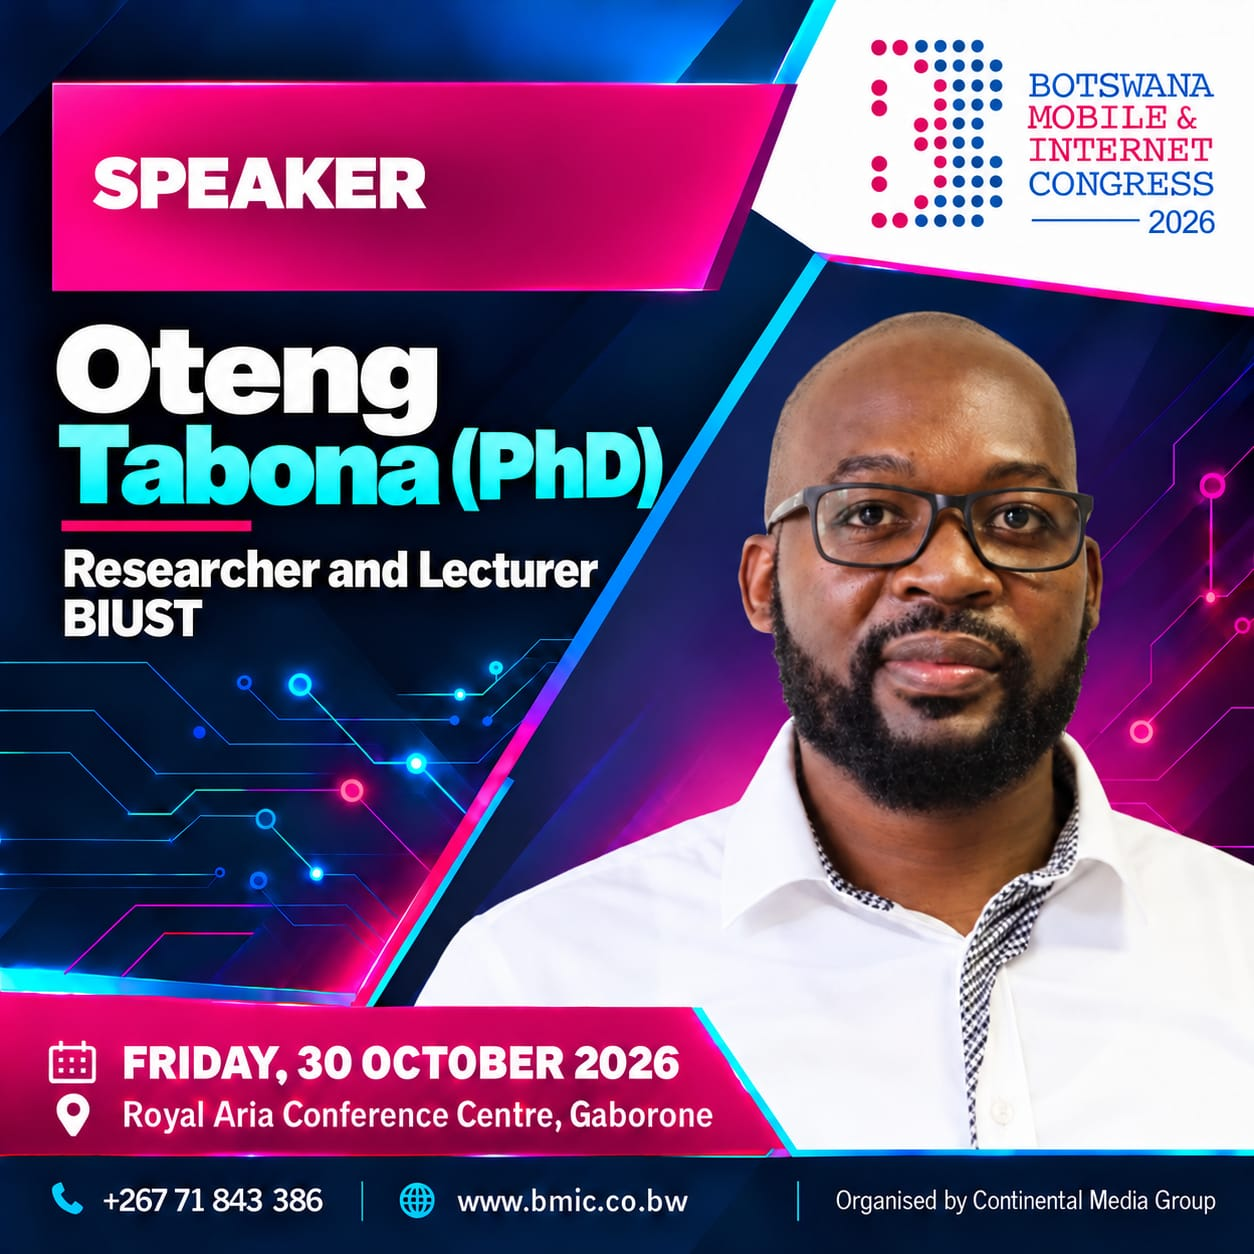
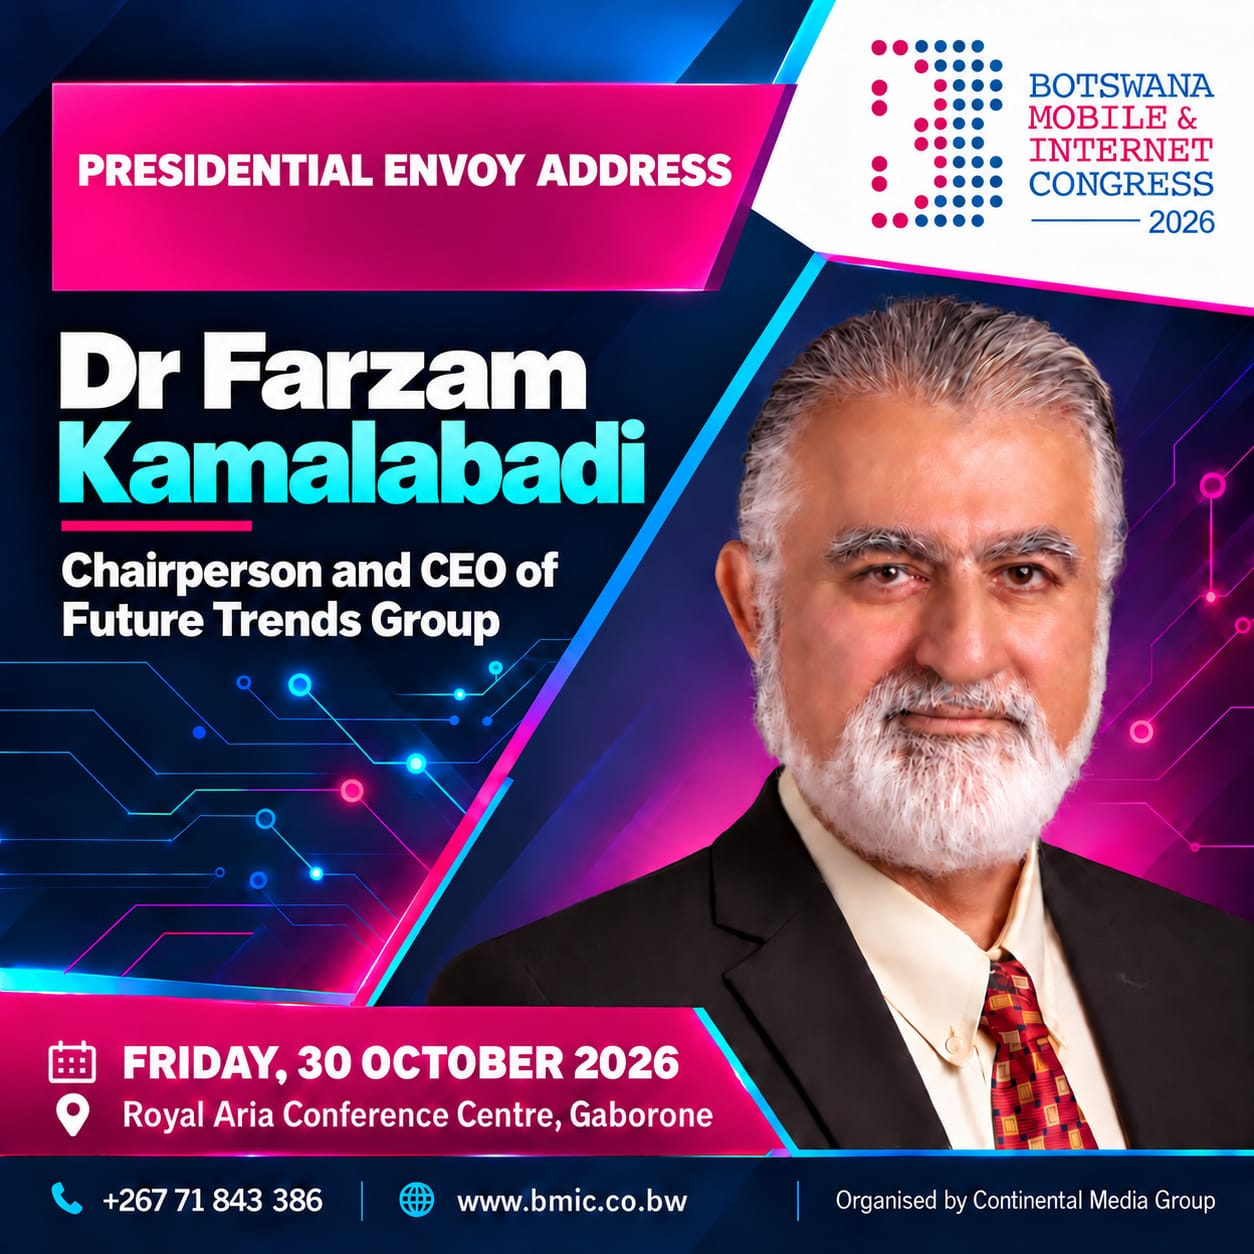
feat(email): replace QR code with pass image attachment
Update email template to send the digital pass as a base64-encoded image attachment instead of an inline QR code for better display compatibility.

diff --git a/api/send-email.ts b/api/send-email.ts
@@ -58,11 +58,7 @@ export default async function handler(req: VercelRequest, res: VercelResponse) {
       const cleanPassId = escapeHtml(passId.trim());
       const cleanTier = escapeHtml((tier || passOrTier || 'General Pass').trim());
       const cleanOrg = escapeHtml((req.body.organizationName || '').trim());
-      const cleanBookingRef = escapeHtml((req.body.bookingId || '').replace('reg_', '').toUpperCase());
-      const isMagentaTier = cleanTier.toLowerCase().includes('corporate delegate') || cleanTier.toLowerCase().includes('corp');
-      const pillBg = isMagentaTier ? '#E0245E' : '#2F6FBA';
-      const accentColor = isMagentaTier ? '#FF6B9A' : '#6AA5EE';
-      const qrUrl = `https://api.qrserver.com/v1/create-qr-code/?size=140x140&data=${encodeURIComponent(cleanPassId)}`;
+      const passImageBase64 = req.body.passImageBase64 || '';
 
       subject = `BMIC 2026 Official Congress Pass – ${cleanPassId}`;
 
@@ -79,7 +75,7 @@ Delegate: ${cleanName} ${cleanOrg ? `(${cleanOrg})` : ''}
 Venue: Royal Aria Conference Centre, Plenary Hall
 Date: 30 October 2026
 
-Please present this Pass ID or QR code at the registration desk upon arrival.
+Your official digital pass image is attached to this email and displayed below. Please present this pass at the registration desk upon arrival.
 
 Contact: info@bmic.co.bw | Botswana Mobile Innovation Congress 2026
       `.trim();
@@ -95,93 +91,57 @@ Contact: info@bmic.co.bw | Botswana Mobile Innovation Congress 2026
   <table width="100%" border="0" cellspacing="0" cellpadding="0" style="background-color: #050B14; padding: 32px 16px;">
     <tr>
       <td align="center">
-        <!-- Main Ticket Card Table -->
-        <table width="640" border="0" cellspacing="0" cellpadding="0" style="background-color: #0A1128; border: 1px solid #1F2D52; border-radius: 16px; overflow: hidden; box-shadow: 0 10px 30px rgba(0,0,0,0.6);">
+        <!-- Container -->
+        <table width="650" border="0" cellspacing="0" cellpadding="0" style="background-color: #0A1128; border: 1px solid #1F2D52; border-radius: 16px; overflow: hidden; box-shadow: 0 10px 30px rgba(0,0,0,0.6);">
+          <!-- Header Banner -->
           <tr>
-            <!-- Left Ticket Body -->
-            <td style="padding: 32px; vertical-align: top;">
-              <table width="100%" border="0" cellspacing="0" cellpadding="0">
+            <td align="center" style="padding: 28px 24px 20px 24px; border-bottom: 1px solid rgba(255,255,255,0.08);">
+              <span style="font-size: 11px; font-weight: bold; color: #ffffff; letter-spacing: 2px; display: block; margin-bottom: 4px;">BOTSWANA MOBILE &amp; INTERNET CONGRESS</span>
+              <span style="font-size: 13px; font-weight: bold; color: #6AA5EE; letter-spacing: 1px; display: block;">BMIC 2026 OFFICIAL PASS</span>
+            </td>
+          </tr>
+          <!-- Greeting -->
+          <tr>
+            <td style="padding: 24px 32px 16px 32px;">
+              <p style="margin: 0 0 12px 0; font-size: 15px; color: #E2E8F0;">
+                Dear <strong style="color: #ffffff;">${cleanName}</strong>,
+              </p>
+              <p style="margin: 0; font-size: 14px; line-height: 1.6; color: #9AA6C4;">
+                Your official congress pass has been generated. You can view your pass below or use the attached image file when checking in at the Royal Aria Conference Centre.
+              </p>
+            </td>
+          </tr>
+          <!-- Actual Pass Image Display -->
+          <tr>
+            <td align="center" style="padding: 16px 32px 28px 32px;">
+              ${
+                passImageBase64
+                  ? `<img src="${passImageBase64}" alt="BMIC 2026 Official Pass" width="586" style="display: block; width: 100%; max-width: 586px; height: auto; border-radius: 12px; border: 1px solid #2F4275; box-shadow: 0 8px 24px rgba(0,0,0,0.5);" />`
+                  : `<div style="padding: 40px; background-color: #0E1C38; border-radius: 12px; color: #6AA5EE; font-family: monospace;">Pass ID: ${cleanPassId} (${cleanTier})</div>`
+              }
+            </td>
+          </tr>
+          <!-- Details & Instructions -->
+          <tr>
+            <td style="padding: 0 32px 32px 32px;">
+              <table width="100%" border="0" cellspacing="0" cellpadding="0" style="background-color: #0E1C38; border: 1px solid rgba(47, 109, 181, 0.3); border-radius: 12px; padding: 20px;">
                 <tr>
-                  <td>
-                    <span style="font-size: 11px; font-weight: bold; color: #ffffff; letter-spacing: 1px; display: block;">BOTSWANA MOBILE &amp; INTERNET</span>
-                    <span style="font-size: 11px; font-weight: bold; color: #6AA5EE; letter-spacing: 1px; display: block;">CONGRESS</span>
-                  </td>
-                  <td align="right">
-                    <span style="background-color: ${pillBg}; color: #ffffff; padding: 6px 14px; border-radius: 20px; font-size: 10px; font-weight: bold; text-transform: uppercase; letter-spacing: 0.5px; display: inline-block;">
-                      ${cleanTier}
-                    </span>
-                  </td>
-                </tr>
-              </table>
-
-              <!-- Date & Location -->
-              <div style="font-size: 10px; font-family: monospace; color: #8A97B8; text-transform: uppercase; letter-spacing: 1.5px; margin-top: 18px; margin-bottom: 24px;">
-                30 OCTOBER 2026 &middot; GABORONE, BOTSWANA
-              </div>
-
-              <!-- Delegate Info -->
-              <div style="margin-bottom: 24px;">
-                <span style="font-size: 9px; font-family: monospace; color: #8A97B8; text-transform: uppercase; letter-spacing: 1.5px; display: block; margin-bottom: 4px;">DELEGATE</span>
-                <h2 style="margin: 0; font-size: 24px; font-weight: 500; color: #ffffff; letter-spacing: -0.5px;">${cleanName}</h2>
-                ${cleanOrg ? `<div style="font-size: 13px; color: #9AA6C4; margin-top: 2px;">${cleanOrg}</div>` : ''}
-              </div>
-
-              <!-- Divider -->
-              <table width="100%" border="0" cellspacing="0" cellpadding="0" style="margin-bottom: 20px;">
-                <tr>
-                  <td style="border-top: 1px solid #24366A; font-size: 1px; line-height: 1px;">&nbsp;</td>
-                </tr>
-              </table>
-
-              <!-- Info Grid -->
-              <table width="100%" border="0" cellspacing="0" cellpadding="0">
-                <tr>
-                  <td width="50%" style="vertical-align: top; padding-bottom: 16px; padding-right: 12px;">
-                    <span style="font-size: 9px; font-family: monospace; color: #8A97B8; text-transform: uppercase; display: block; margin-bottom: 2px;">VENUE</span>
-                    <span style="font-size: 12px; color: #ffffff; font-weight: 500; line-height: 1.4; display: block;">Royal Aria Conference Centre, Plenary Hall</span>
-                  </td>
-                  <td width="50%" style="vertical-align: top; padding-bottom: 16px; padding-left: 12px;">
-                    <span style="font-size: 9px; font-family: monospace; color: #8A97B8; text-transform: uppercase; display: block; margin-bottom: 2px;">PASS ID</span>
-                    <span style="font-size: 12px; font-family: monospace; color: ${accentColor}; font-weight: bold; display: block;">${cleanPassId}</span>
-                  </td>
-                </tr>
-                <tr>
-                  <td width="50%" style="vertical-align: top; padding-right: 12px;">
-                    <span style="font-size: 9px; font-family: monospace; color: #8A97B8; text-transform: uppercase; display: block; margin-bottom: 2px;">ACCESS</span>
-                    <span style="font-size: 11px; color: #ffffff; line-height: 1.4; display: block;">Full congress and exhibition access</span>
-                  </td>
-                  <td width="50%" style="vertical-align: top; padding-left: 12px;">
-                    <span style="font-size: 9px; font-family: monospace; color: #8A97B8; text-transform: uppercase; display: block; margin-bottom: 2px;">BOOKING REF</span>
-                    <span style="font-size: 11px; font-family: monospace; color: #ffffff; display: block;">#${cleanBookingRef || 'BMIC2026'}</span>
+                  <td style="font-size: 13px; color: #B8C2D6; line-height: 1.6;">
+                    <strong style="color: #ffffff; display: block; margin-bottom: 6px;">Important Information:</strong>
+                    &bull; <strong>Date:</strong> 30 October 2026<br>
+                    &bull; <strong>Venue:</strong> Royal Aria Conference Centre, Plenary Hall<br>
+                    &bull; <strong>Pass ID:</strong> <span style="font-family: monospace; color: #6AA5EE;">${cleanPassId}</span><br>
+                    &bull; Present the QR code on your pass at the registration kiosk upon arrival.
                   </td>
                 </tr>
               </table>
             </td>
-
-            <!-- Right Ticket Stub -->
-            <td width="190" style="background-color: #0D1736; border-left: 1px dashed #3B4A78; padding: 28px 20px; vertical-align: middle; text-align: center;">
-              <span style="font-size: 10px; font-family: monospace; font-weight: bold; color: #FF6B9A; text-transform: uppercase; letter-spacing: 2px; display: block; margin-bottom: 16px;">ADMIT ONE</span>
-              
-              <!-- QR Code Box -->
-              <table align="center" border="0" cellspacing="0" cellpadding="0" style="background-color: #ffffff; border-radius: 12px; padding: 8px; margin-bottom: 16px; box-shadow: 0 4px 12px rgba(0,0,0,0.3);">
-                <tr>
-                  <td align="center">
-                    <img src="${qrUrl}" alt="Pass QR Code" width="115" height="115" style="display: block; border-radius: 6px;" />
-                  </td>
-                </tr>
-              </table>
-
-              <span style="font-size: 10px; color: #ffffff; display: block; margin-bottom: 2px;">Scan at registration</span>
-              <span style="font-size: 9px; font-family: monospace; color: #8A97B8; display: block; margin-bottom: 12px; word-break: break-all;">${cleanPassId}</span>
-
-              <!-- Status Pill -->
-              <table align="center" border="0" cellspacing="0" cellpadding="0" style="background-color: rgba(47, 109, 181, 0.2); border: 1px solid rgba(47, 109, 181, 0.4); border-radius: 6px;">
-                <tr>
-                  <td style="padding: 4px 12px; font-size: 9px; font-family: monospace; font-weight: bold; color: #6AA5EE; text-transform: uppercase; letter-spacing: 1px;">
-                    VALID PASS
-                  </td>
-                </tr>
-              </table>
+          </tr>
+          <!-- Footer -->
+          <tr>
+            <td align="center" style="background-color: #070D18; padding: 20px; border-top: 1px solid rgba(255,255,255,0.08); font-size: 11px; color: #8A99AD;">
+              <p style="margin: 0 0 4px 0;">Botswana Mobile Innovation Congress 2026 &middot; Gaborone, Botswana</p>
+              <p style="margin: 0;">Support: <a href="mailto:info@bmic.co.bw" style="color: #6AA5EE; text-decoration: none;">info@bmic.co.bw</a></p>
             </td>
           </tr>
         </table>
